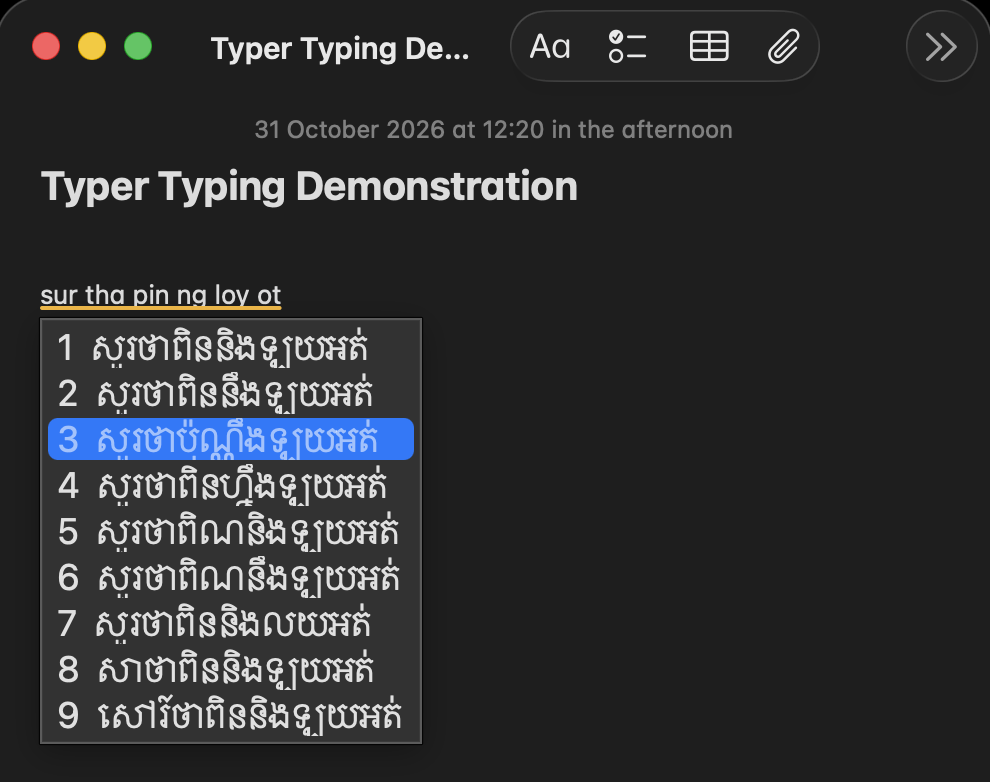
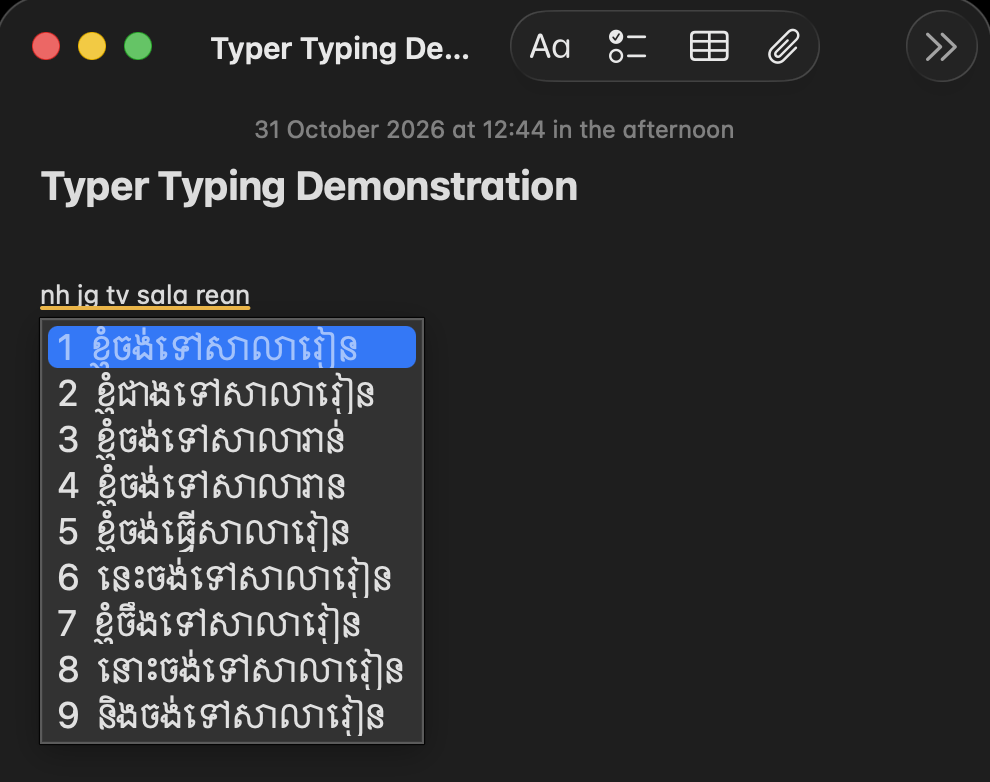
docs: poster and hero use the 'nh jg tv sala rean' screenshot

Changed region(s): [[0.0303, 0.3683, 0.4545, 0.9514], [0.5152, 0.1535, 0.7576, 0.1841]]

diff --git a/docs/index.html b/docs/index.html
@@ -89,7 +89,7 @@
 <h1>Typer</h1>
 <p class="lead">Type Khmer the way you already chat: in Latin letters, spelled however you like. Free for macOS.</p>
 
-<div class="hero"><img src="img/hero.png" alt="Typing sur tha pin ng loy ot in Notes; Typer lists Khmer phrases such as សួរថាប៉ុណ្ណឹងឡូយអត់"></div>
+<div class="hero"><img src="img/hero.png" alt="Typing nh jg tv sala rean in Notes; Typer suggests ខ្ញុំចង់ទៅសាលារៀន first"></div>
 
 <p><a class="btn" href="https://github.com/Nel-sokchhunly/typer/releases/latest/download/Typer-macos.zip">Download for macOS</a></p>
 <p class="note">macOS 13 Ventura or newer · Apple Silicon and Intel · early preview: it will sometimes guess wrong, and it learns from what you pick.</p>

diff --git a/README.md b/README.md
@@ -1,6 +1,6 @@
 # Typer
 
-<img src="docs/img/social.png" alt="Typing sur tha pin ng loy ot in Notes, with Khmer suggestions" width="480">
+<img src="docs/img/social.png" alt="Typing nh jg tv sala rean in Notes; Typer suggests ខ្ញុំចង់ទៅសាលារៀន" width="480">
 
 **Illustrated install guide with screenshots: <https://nel-sokchhunly.github.io/typer/>**
 
